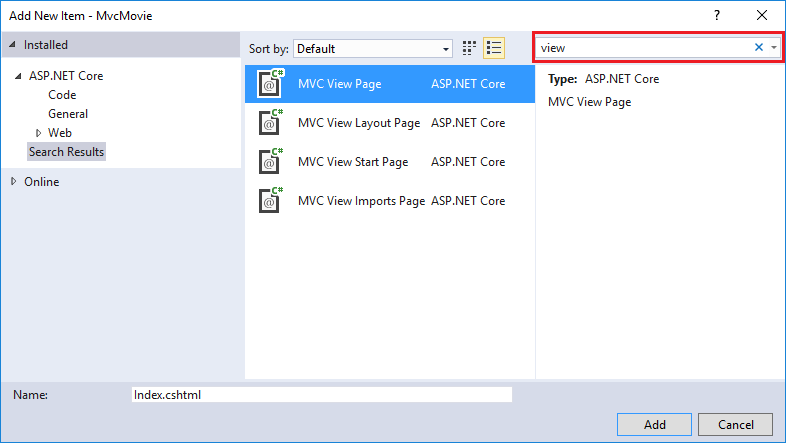
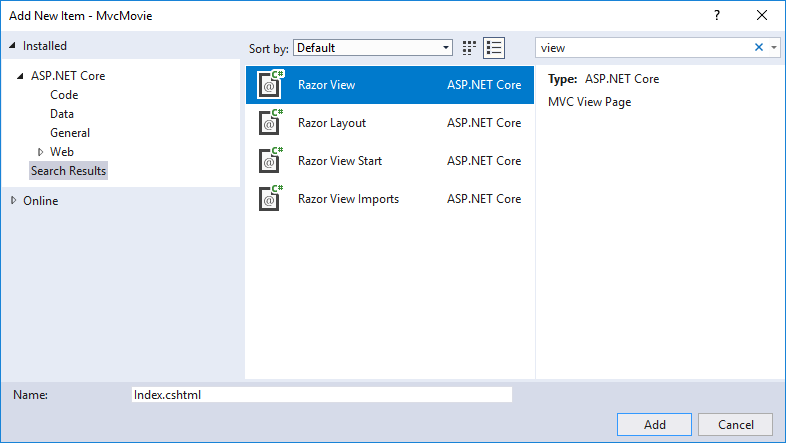
Fix UI change in MVC tutorial (#5995)

Changed region(s): [[0.0, 0.0, 1.0, 1.0], [0.5496, 0.3521, 0.6718, 0.3815], [0.0, 0.8804, 0.0611, 0.9097]]

diff --git a/aspnetcore/tutorials/first-mvc-app/adding-view.md b/aspnetcore/tutorials/first-mvc-app/adding-view.md
@@ -21,7 +21,7 @@ uid: tutorials/first-mvc-app/adding-view
 
   * In the search box in the upper-right, enter *view*
 
-  * Tap **MVC View Page**
+  * Tap **Razor View**
 
   * In the **Name** box, change the name if necessary to *Index.cshtml*.
 
